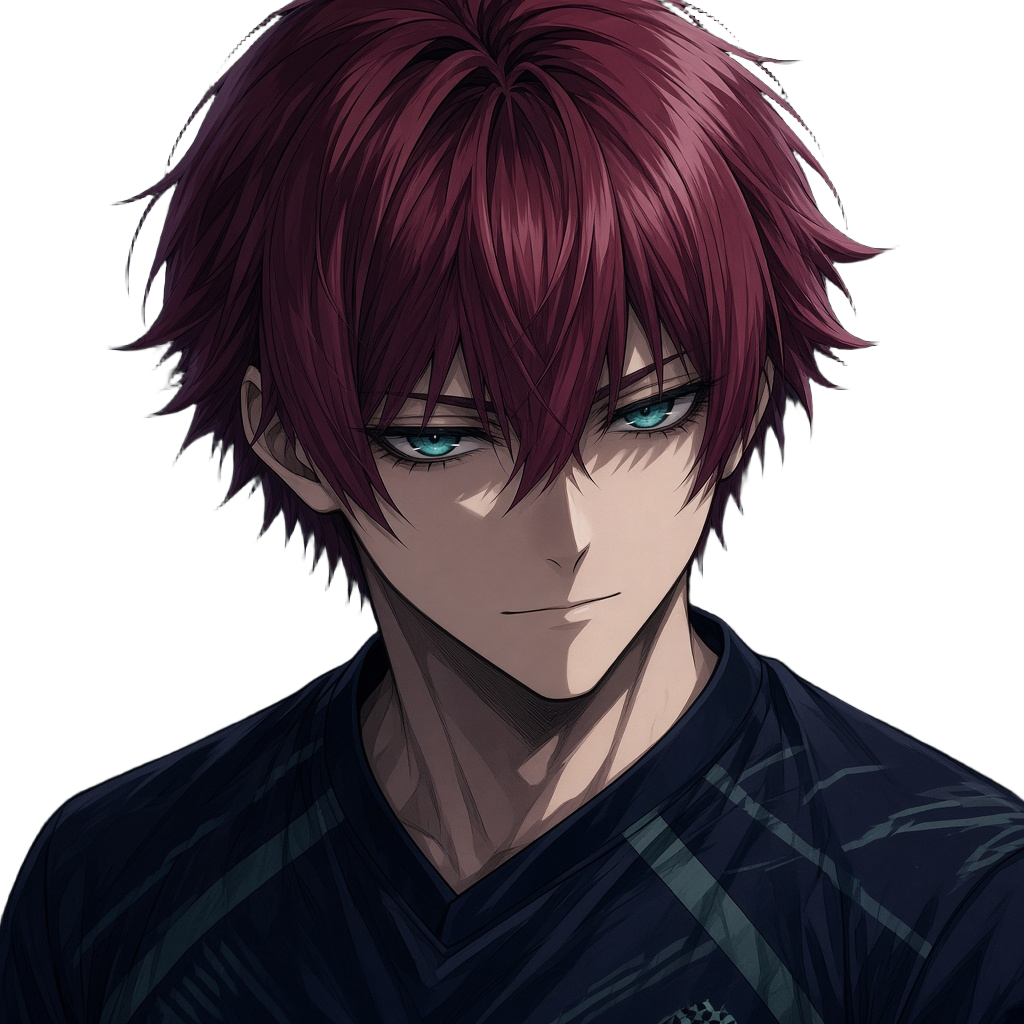
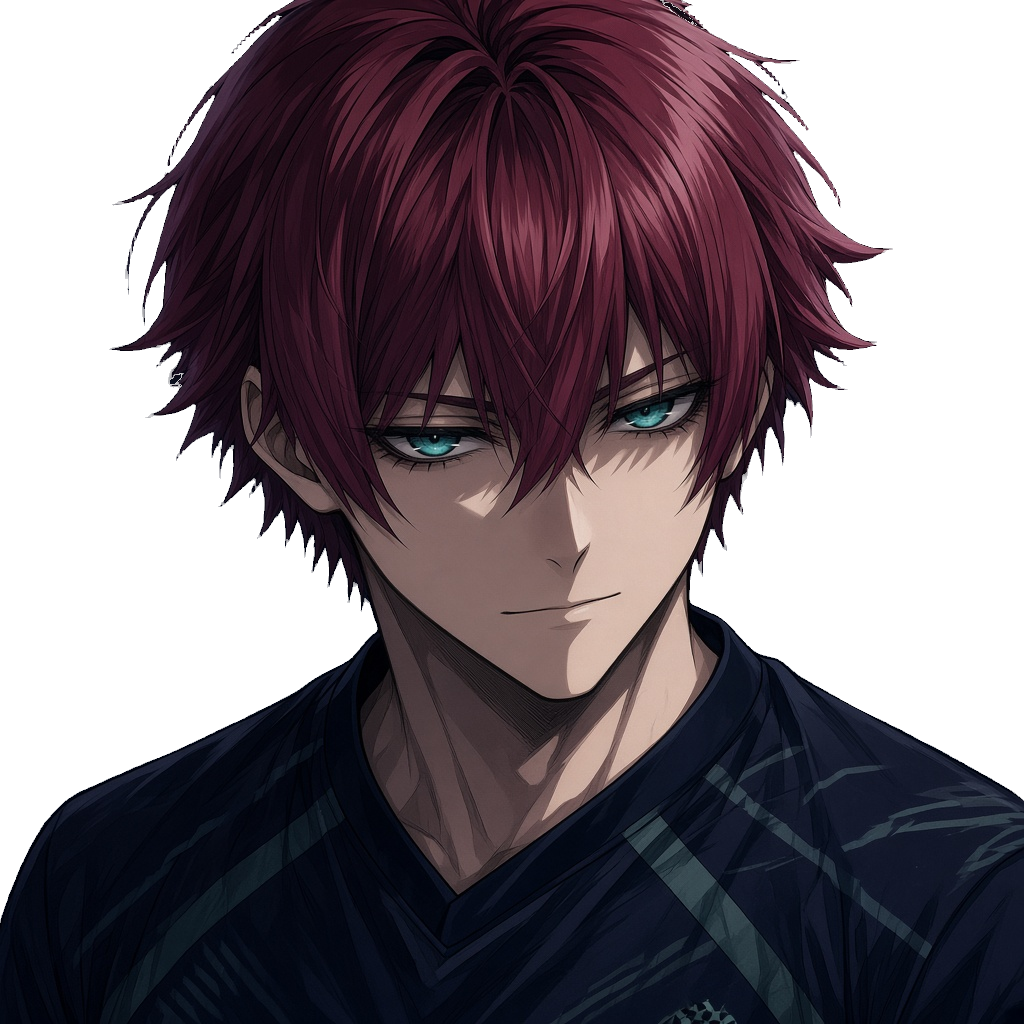
Fix portrait cutouts: keep black hair, no bg halos
Tighten cut-portraits so morphological close never grows into
border-connected background, drop tiny opaque islands, and
regenerate all rembg cutouts. Black-haired portraits keep solid
hair alpha with transparent outer corners.

diff --git a/scripts/cut-portraits.py b/scripts/cut-portraits.py
@@ -26,12 +26,10 @@ def cut_with_rembg(path: Path) -> Image.Image:
     return Image.open(BytesIO(result)).convert("RGBA")
 
 
-def fill_internal_holes(rgba: Image.Image, src_rgb: Image.Image, alpha_cut: int = 40) -> Image.Image:
-    """Restore opaque pixels for rembg holes that are not connected to the border."""
+def border_background_mask(rgba: Image.Image, alpha_cut: int = 40) -> list[list[bool]]:
+    """True where transparency is reachable from the image border (= real background)."""
     w, h = rgba.size
-    a = rgba.split()[3]
-    ap = a.load()
-    # Border-connected transparent = real background.
+    ap = rgba.split()[3].load()
     bg = [[False] * w for _ in range(h)]
     q: deque[tuple[int, int]] = deque()
 
@@ -53,6 +51,15 @@ def fill_internal_holes(rgba: Image.Image, src_rgb: Image.Image, alpha_cut: int 
             if 0 <= nx < w and 0 <= ny < h and not bg[ny][nx] and ap[nx, ny] < alpha_cut:
                 bg[ny][nx] = True
                 q.append((nx, ny))
+    return bg
+
+
+def fill_internal_holes(rgba: Image.Image, src_rgb: Image.Image, alpha_cut: int = 40) -> Image.Image:
+    """Restore opaque pixels for rembg holes that are not connected to the border."""
+    w, h = rgba.size
+    a = rgba.split()[3]
+    ap = a.load()
+    bg = border_background_mask(rgba, alpha_cut=alpha_cut)
 
     out = rgba.copy()
     op = out.load()
@@ -67,15 +74,12 @@ def fill_internal_holes(rgba: Image.Image, src_rgb: Image.Image, alpha_cut: int 
 
 
 def close_subject_mask(rgba: Image.Image, src_rgb: Image.Image, radius: int = 6) -> Image.Image:
-    """Dilate+erode the alpha mask so thin dark strands reconnect, then sample RGB from source."""
+    """Dilate+erode alpha to reconnect thin strands — never grow into border background."""
     a = rgba.split()[3]
-    # MaxFilter = dilate, MinFilter = erode on luminance of alpha.
     closed = a.filter(ImageFilter.MaxFilter(radius * 2 + 1)).filter(ImageFilter.MinFilter(radius * 2 + 1))
-    # Only grow into pixels that were nearly transparent — don't invent far-away bg blobs.
-    # Soften: take max of original alpha and closed alpha, but if closed fills a bg gap
-    # far from subject it's ok because we already constrained via rembg silhouette roughly.
-    # Safer: only fill where closed is high AND a nearby original opaque exists (already true via close).
     w, h = rgba.size
+    # Freeze true background so morphological close cannot paint black-bg halos.
+    bg = border_background_mask(rgba, alpha_cut=40)
     out = rgba.copy()
     op = out.load()
     sp = src_rgb.load()
@@ -85,16 +89,47 @@ def close_subject_mask(rgba: Image.Image, src_rgb: Image.Image, radius: int = 6)
         for x in range(w):
             oa = ap[x, y]
             ca = cp[x, y]
-            if ca > oa and ca >= 180 and oa < 40:
+            if bg[y][x]:
+                r, g, b, _ = op[x, y]
+                op[x, y] = (r, g, b, 0)
+            elif ca > oa and ca >= 180 and oa < 40:
                 r, g, b = sp[x, y][:3]
                 op[x, y] = (r, g, b, 255)
             elif oa < 40:
-                # stay transparent (true bg)
                 r, g, b, _ = op[x, y]
                 op[x, y] = (r, g, b, 0)
             else:
                 r, g, b = sp[x, y][:3]
                 op[x, y] = (r, g, b, max(oa, 255 if oa > 128 else oa))
+    return out
+
+
+def drop_tiny_islands(rgba: Image.Image, min_size: int = 64) -> Image.Image:
+    """Remove small opaque speckles disconnected from the main subject."""
+    w, h = rgba.size
+    a = rgba.split()[3]
+    ap = a.load()
+    visited = [[False] * w for _ in range(h)]
+    out = rgba.copy()
+    op = out.load()
+    for y in range(h):
+        for x in range(w):
+            if visited[y][x] or ap[x, y] < 40:
+                continue
+            q: deque[tuple[int, int]] = deque([(x, y)])
+            visited[y][x] = True
+            cells: list[tuple[int, int]] = [(x, y)]
+            while q:
+                cx, cy = q.popleft()
+                for nx, ny in ((cx - 1, cy), (cx + 1, cy), (cx, cy - 1), (cx, cy + 1)):
+                    if 0 <= nx < w and 0 <= ny < h and not visited[ny][nx] and ap[nx, ny] >= 40:
+                        visited[ny][nx] = True
+                        q.append((nx, ny))
+                        cells.append((nx, ny))
+            if len(cells) < min_size:
+                for cx, cy in cells:
+                    r, g, b, _ = op[cx, cy]
+                    op[cx, cy] = (r, g, b, 0)
     return out
 
 
@@ -125,6 +160,7 @@ def cut(path: Path) -> Path:
     fixed = fill_internal_holes(matted, src)
     fixed = close_subject_mask(fixed, src, radius=5)
     fixed = fill_internal_holes(fixed, src)  # fill any holes left after close
+    fixed = drop_tiny_islands(fixed)
     fixed = harden_alpha(fixed)
 
     out = DST / (path.stem + ".png")
@@ -133,7 +169,12 @@ def cut(path: Path) -> Path:
 
 
 def main() -> None:
+    import sys
+
+    names = {a.lower().removesuffix(".jpg").removesuffix(".png") for a in sys.argv[1:]}
     jpgs = sorted(SRC.glob("*.jpg"))
+    if names:
+        jpgs = [p for p in jpgs if p.stem.lower() in names]
     for p in jpgs:
         out = cut(p)
         print("wrote", out)
